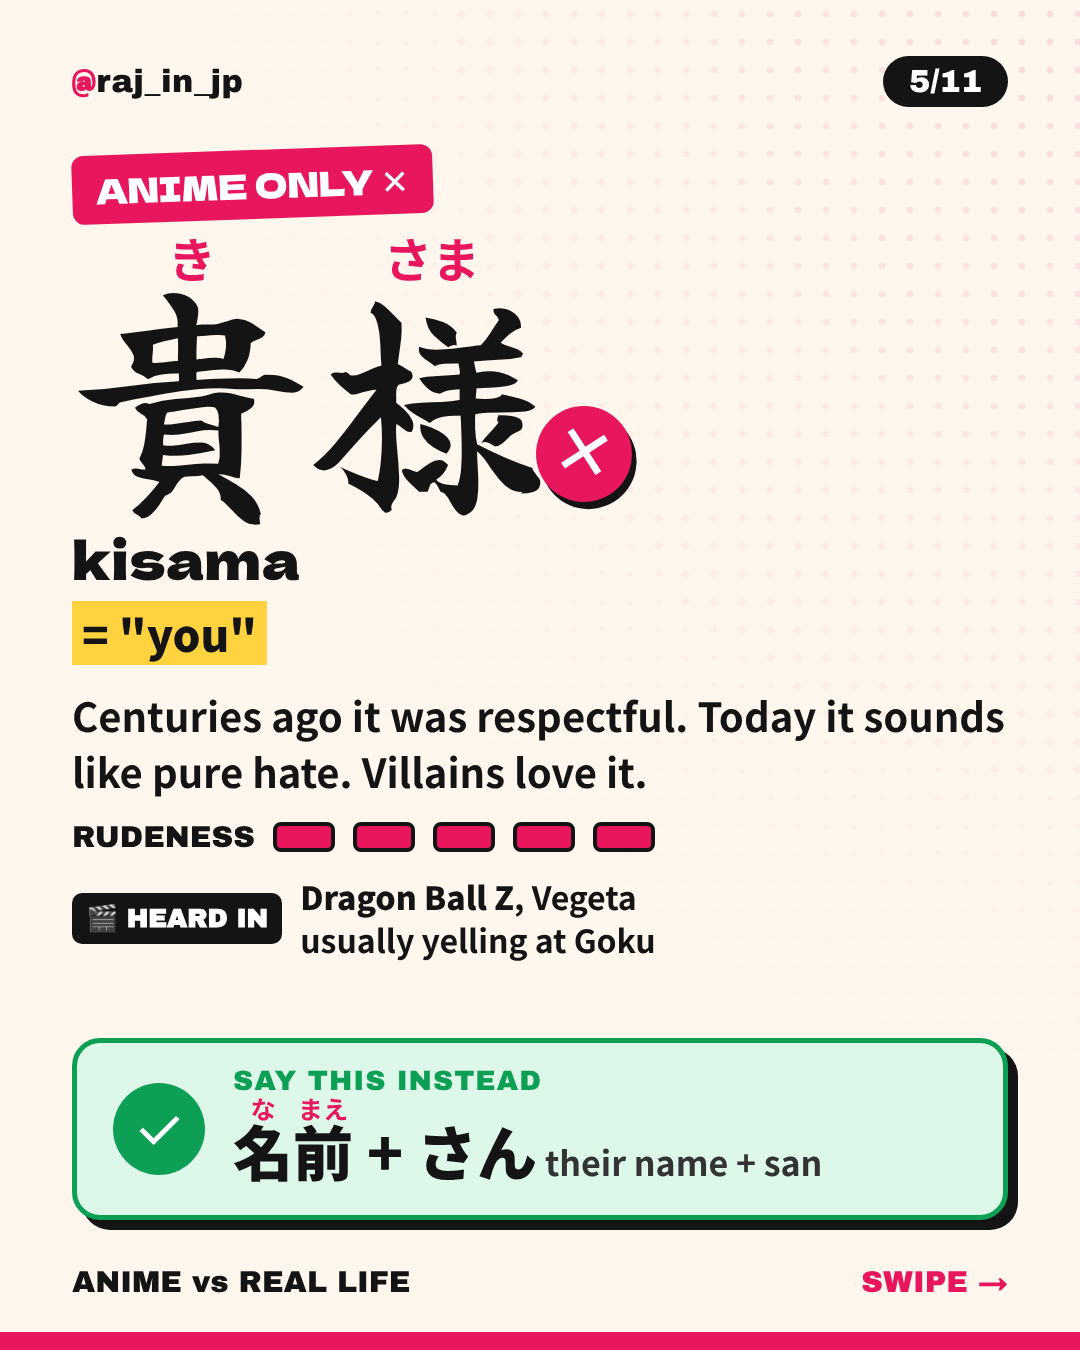
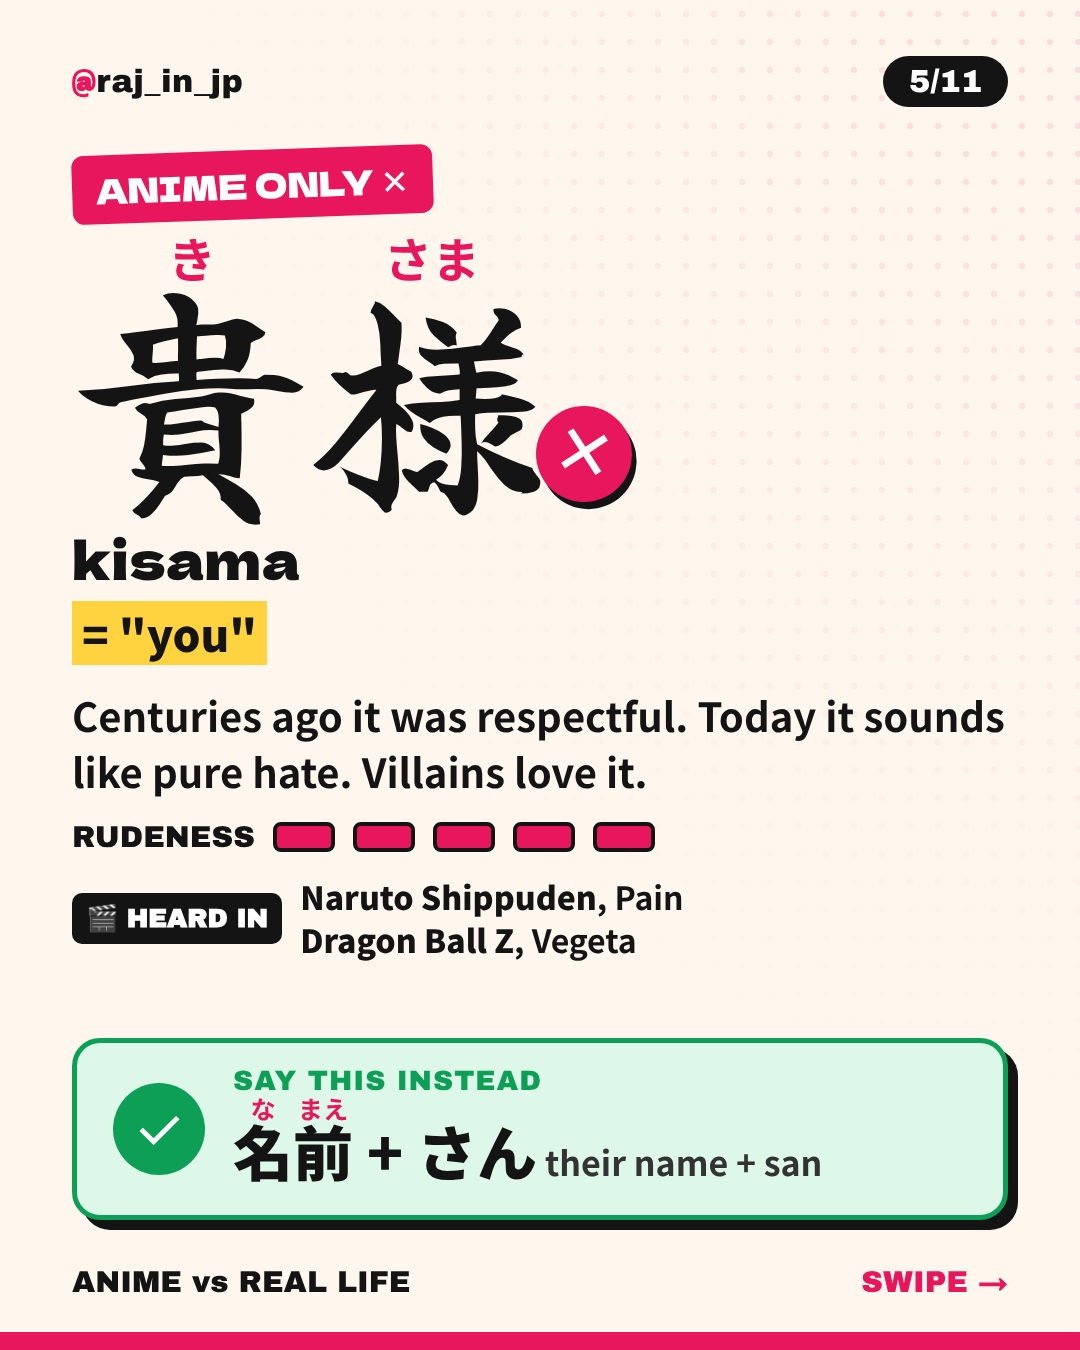
Pick best anime cuts: Pain for 貴様, tighter Bakugo trim
Also adds make_preview.py and credits Pain on the 貴様 slide.

Claude-Session: https://claude.ai/code/session_01EaoD2uAGWmKnrxvvdunxK2

Changed region(s): [[0.275, 0.6533, 0.6417, 0.7156]]

diff --git a/instagram/carousels/anime-japanese/make_preview.py b/instagram/carousels/anime-japanese/make_preview.py
@@ -1,0 +1,26 @@
+#!/usr/bin/env python3
+"""Stitch all slides into one preview video with swipe transitions."""
+import subprocess, os
+HERE = os.path.dirname(os.path.abspath(__file__)); os.chdir(HERE)
+os.makedirs("seg", exist_ok=True)
+segs = []
+for n in range(1, 12):
+    v = f"out_video/anime-japanese-{n:02d}.mp4"; o = f"seg/{n:02d}.mp4"
+    if os.path.exists(v):
+        subprocess.run(["ffmpeg","-v","error","-y","-i",v,"-c","copy",o], check=True); d = 4.0
+    else:
+        d = 3.0
+        subprocess.run(["ffmpeg","-v","error","-y","-loop","1","-framerate","30","-t",str(d),"-i",f"out/anime-japanese-{n:02d}.png",
+            "-f","lavfi","-t",str(d),"-i","anullsrc=r=44100:cl=stereo","-c:v","libx264","-crf","18","-pix_fmt","yuv420p",
+            "-r","30","-c:a","aac","-ar","44100","-shortest",o], check=True)
+    segs.append((o, d))
+T = 0.35; ins = []; fc = []; pv, pa, off = "[0:v]", "[0:a]", 0
+for o, _ in segs: ins += ["-i", o]
+for i in range(1, len(segs)):
+    off += segs[i-1][1] - T
+    fc.append(f"{pv}[{i}:v]xfade=transition=slideleft:duration={T}:offset={off:.3f}[v{i}]")
+    fc.append(f"{pa}[{i}:a]acrossfade=d={T}[a{i}]")
+    pv, pa = f"[v{i}]", f"[a{i}]"
+subprocess.run(["ffmpeg","-v","error","-y",*ins,"-filter_complex",";".join(fc),"-map",pv,"-map",pa,"-c:v","libx264",
+    "-crf","20","-pix_fmt","yuv420p","-c:a","aac","-movflags","+faststart","preview-carousel.mp4"], check=True)
+print("preview ok")

diff --git a/instagram/carousels/anime-japanese/make_videos.py b/instagram/carousels/anime-japanese/make_videos.py
@@ -17,8 +17,8 @@ RADIUS = 22
 # slide: (file, start, end, crop "w:h:x:y" of the useful picture area or None)
 CLIPS = {
     3: ("119fae12-video_20261107_153958.mp4", 0.0, 2.6, "810:1080:640:0"),               # Kenshiro
-    4: ("97db2996-video_20261107_155232.mp4", 0.0, 1.73, "810:1080:1000:0"),              # Bakugo
-    5: ("b873e0d3-Very-rude-way-SnapYT.App.mp4", 24.7, 25.8, "202:206:0:78"),  # Sasuke, 貴様
+    4: ("97db2996-video_20261107_155232.mp4", 0.0, 1.50, "810:1080:1000:0"),              # Bakugo
+    5: ("b873e0d3-Very-rude-way-SnapYT.App.mp4", 2.15, 4.10, "202:206:0:78"),  # Pain, 貴様
     6: ("8a296746-_______________________-_4____shorts-anime-SnapYT.App.mp4", 54.95, 57.4, None),  # ボク様
     7: ("df161ae0-______-SnapYT.App.mp4", 2.6, 4.9, None),                   # Jotaro
     8: ("e098e325-video_20261107_162809.mp4", 0.0, 2.0, "1210:720:181:0"),  # samurai, 拙者

diff --git a/instagram/carousels/anime-japanese/build.py b/instagram/carousels/anime-japanese/build.py
@@ -180,7 +180,7 @@ slides.append(word_slide(4, "てめえ", "temee", '= a rougher "you"',
 slides.append(word_slide(5, "貴様", "kisama", '= "you"',
     "Centuries ago it was respectful. Today it sounds like pure hate. Villains love it.",
     "RUDENESS", 5, say="名前 + さん", say_note="their name + san",
-    heard="<div><b>Dragon Ball Z</b>, Vegeta<br>usually yelling at Goku</div>"))
+    heard="<div><b>Naruto Shippuden</b>, Pain<br><b>Dragon Ball Z</b>, Vegeta</div>"))
 slides.append(word_slide(6, "俺様", "oresama", '= "I, the great one"',
     "Pure anime ego. Say it at work and you're the joke of the office.",
     "RUDENESS", 4, say="私", say_note="watashi",
